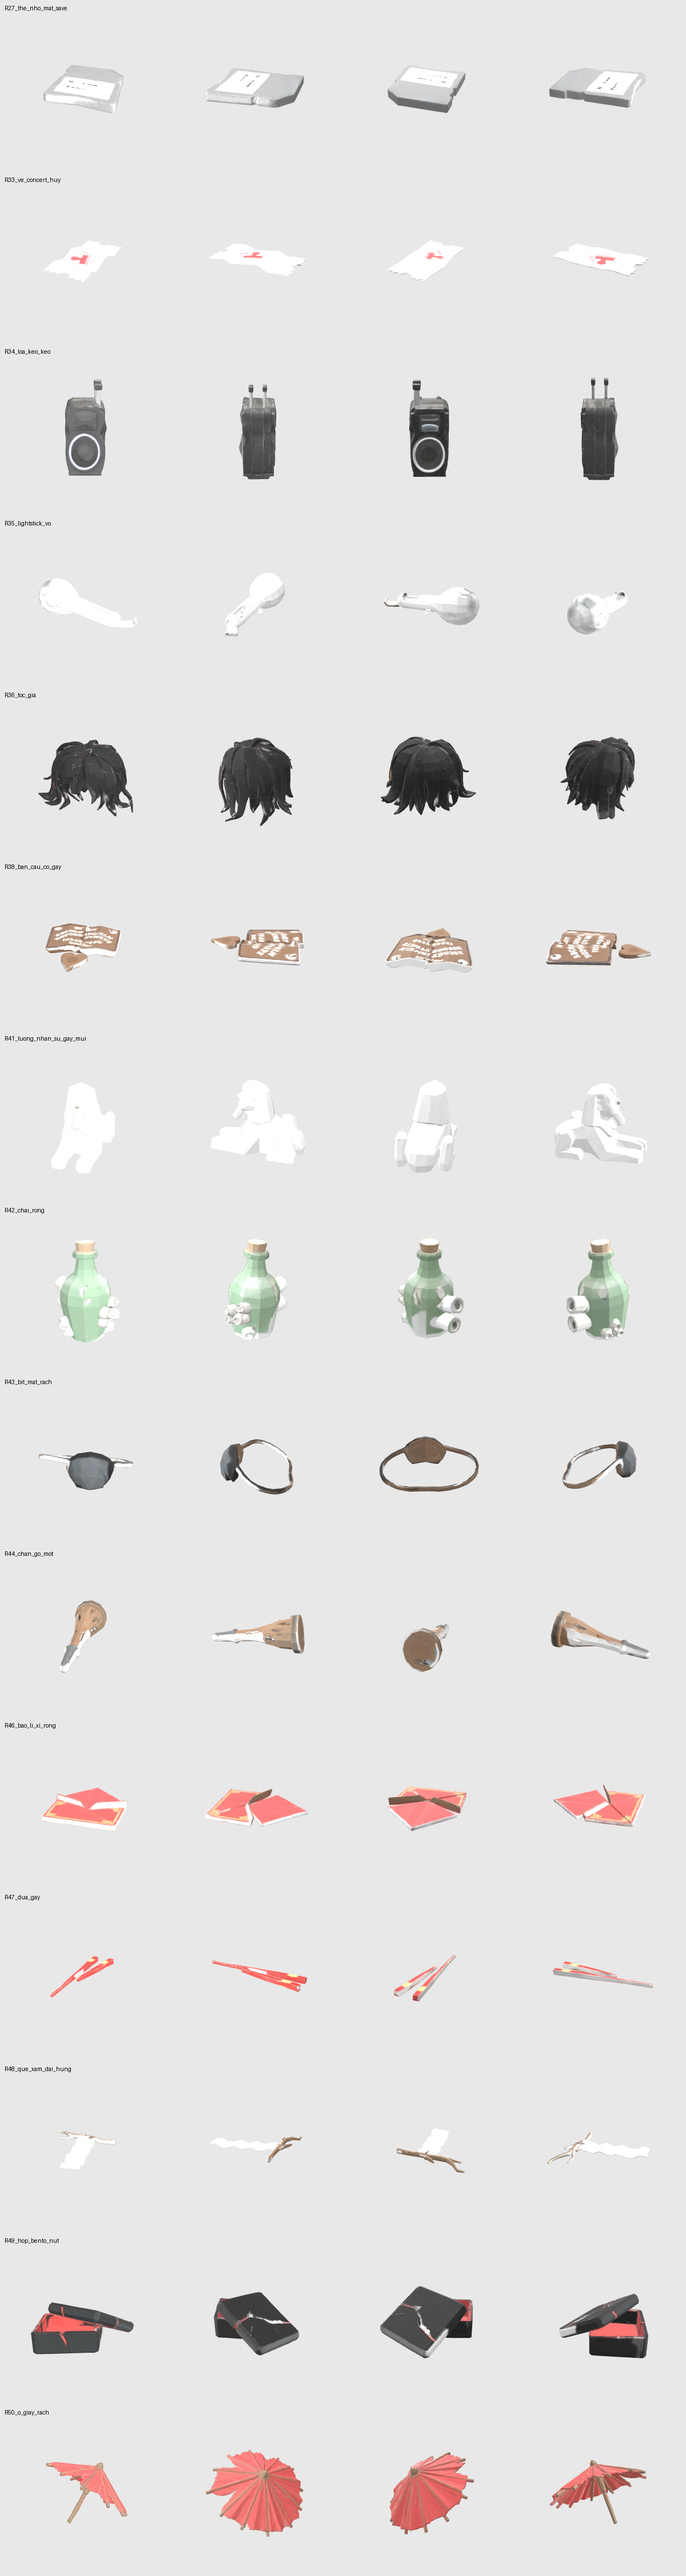
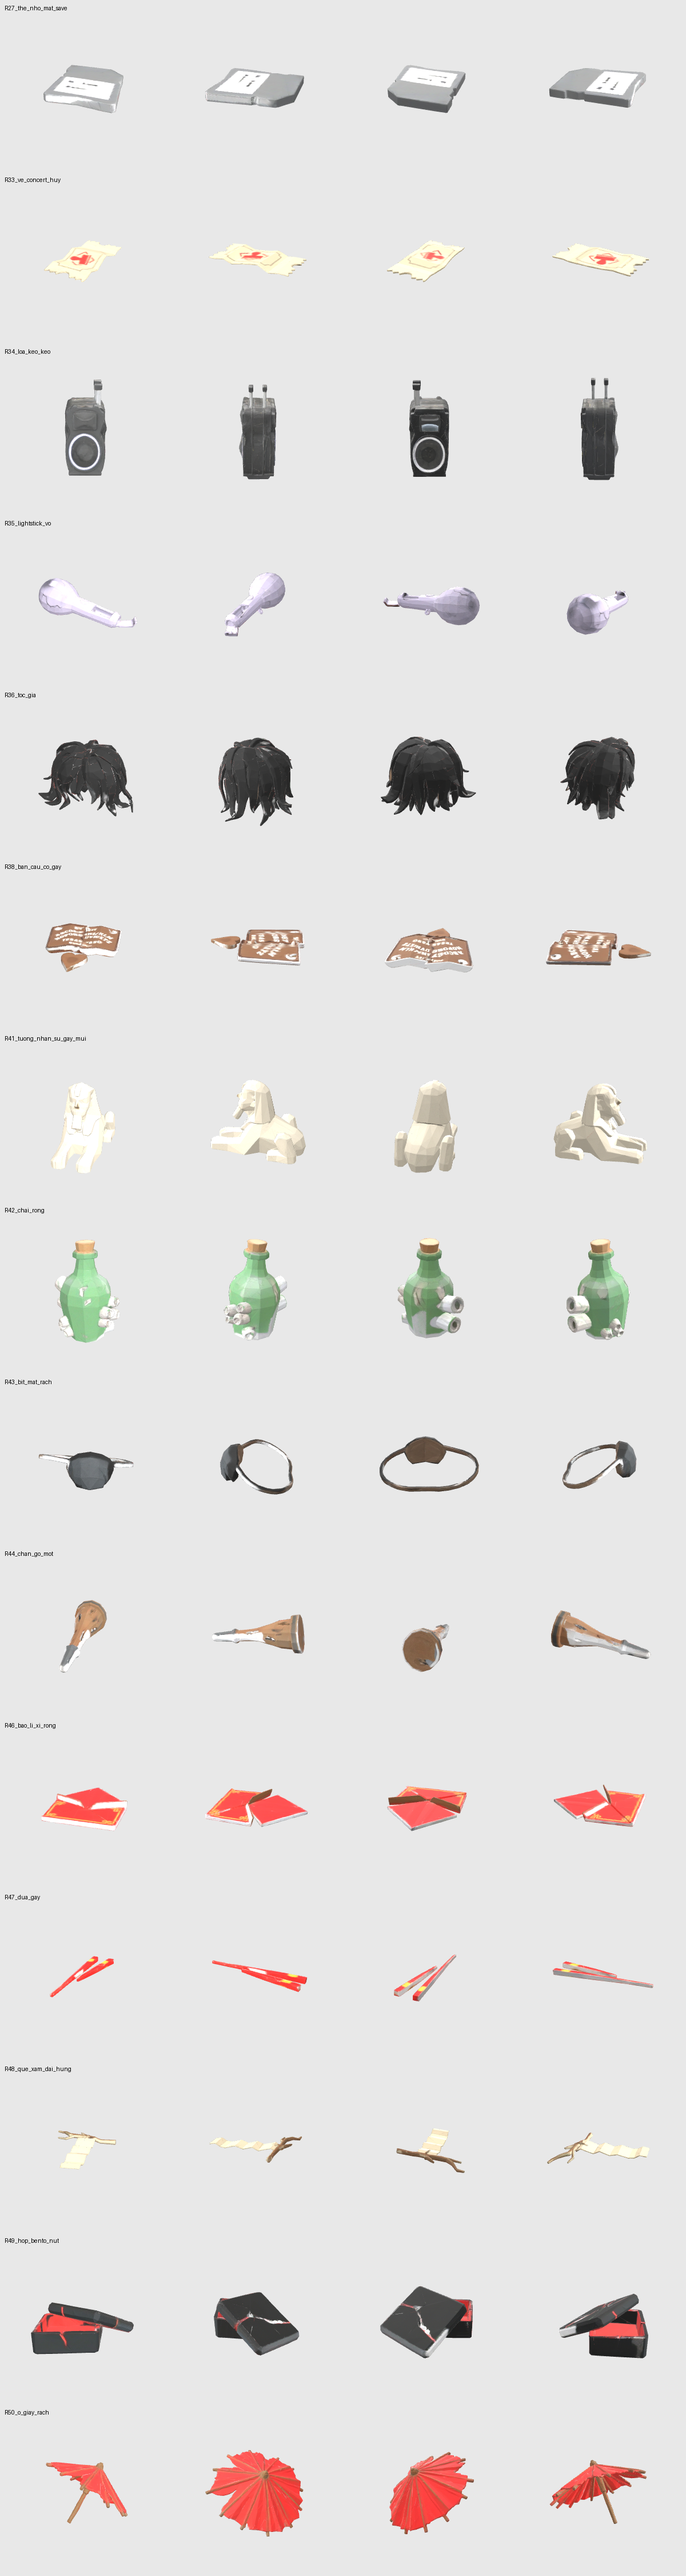
art: recolor themed junk batch 2 (R27-R50)
Claude-Session: https://claude.ai/code/session_01QKQCdazrfgwXSAQfrCh3ym

diff --git a/Tools/Meshy/retex/fix_rac.py b/Tools/Meshy/retex/fix_rac.py
@@ -13,4 +13,26 @@ if code=="R25":   # mu giay bac: xoa dom moc xanh (lem tu banh bao), to mau bac
         g=px[:,1]-np.maximum(px[:,0],px[:,2])  # xanh la troi hon do va lam
         out=px.copy();bad=g>6;out[bad]=silver;print("pixels",bad.sum(),"silver",silver.round());return out
     tex=paint(tex,P,fix)
+# Chinh mau tung mon: (do sang, do dam mau, tong mau RGB, tuong phan)
+TONE={
+ "R27":(0.85,1.2,(1,1,1),1.1),        # the nho
+ "R33":(0.8,1.5,(1,0.92,0.76),1.0),  # ve concert: giay ngả vang, dau do dam
+ "R34":(0.95,1.2,(1,1,1),1.1),        # loa keo keo
+ "R35":(0.78,1.6,(0.93,0.88,1),1.2),  # lightstick: nhua trang ngả tim
+ "R36":(1.0,1.0,(1,1,1),1.1),         # toc gia
+ "R38":(0.9,1.3,(1,1,1),1.1),         # ban cau co
+ "R41":(0.82,1.0,(1,0.95,0.85),1.3),  # nhan su thach cao: trang ngả kem, lo vet ban
+ "R42":(0.85,1.8,(1,1,1),1.1),        # chai gom xanh
+ "R43":(0.8,1.0,(1,1,1),1.1),         # bit mat
+ "R44":(0.9,1.3,(1,1,1),1.1),         # chan go
+ "R46":(0.85,1.8,(1,1,1),1.1),        # bao li xi do
+ "R47":(0.85,1.8,(1,1,1),1.1),        # dua do
+ "R48":(0.8,1.3,(1,0.92,0.76),1.0),   # que xam: giay ngả vang
+ "R49":(0.95,1.4,(1,1,1),1.1),        # hop bento
+ "R50":(0.85,1.7,(1,1,1),1.1),        # o giay do
+}
+if code in TONE:
+    k,sat,tint,con=TONE[code];mu=cols.mean()
+    g=tex.mean(2,keepdims=True);tex=g+(tex-g)*sat          # do dam mau
+    tex=((tex-mu)*con+mu)*k*np.array(tint)                  # tuong phan, do sang, tong
 save(m,np.clip(tex,0,255),dst)

diff --git a/Docs/Art/BanGiao3D.md b/Docs/Art/BanGiao3D.md
@@ -339,6 +339,7 @@ Còn lại: xem danh sách làm lại; 7 Thường và 5 Hiếm mới chưa làm
 2 ảnh gộp 14 món (lưới 5×3, `gen_img.py ... 14`), 78 credit (số dư còn 495). Ảnh nguồn `Art/Source/ref_rac_chu_de_3.png` (đạt) và `ref_rac_chu_de_2_hong.png` (hỏng, giữ để đối chiếu); ảnh kiểm tra `render_rac_chu_de_2.png`. File ở `Items/LowPoly/Junk/`, cỡ thật (mét), đáy y=0. Cả hai ảnh đều ra 15 món (Meshy nhân đôi một món), đã xóa bản thừa khỏi ảnh trước khi dựng; cả hai có đường kẻ ô, đã làm phẳng bằng `Tools/Meshy/flatten.py vào.png ra.png 5 3`.
 
 - **Ảnh 3 đạt đủ 14 món.** Đũa, tóc giả, bàn cầu cơ tách mảnh nên đã gộp.
+- **Đã tô lại màu cả 15 món** (không tốn credit, `Tools/Meshy/retex/fix_rac.py <mã> vào.glb ra.glb`, bảng `TONE` chỉnh độ sáng, độ đậm màu, tông từng món): đỏ lì xì, đũa, ô đậm hơn; chai xanh rõ; tượng nhân sư ngả kem; lightstick ngả tím; vé và quẻ xăm ngả vàng giấy.
 - **Ảnh 2 hỏng: Meshy chỉ dựng 2 khối**, dùng được loa kẹo kéo, mất 13 món. Ảnh này ra kiểu tranh vẽ có nét viền và nhiều món phẳng (vé, sổ, poster, que kem); ảnh 3 cùng lưới vẫn đạt, nên lỗi do kiểu ảnh chứ không do số món. Lần sau: xem kỹ ảnh, kiểu tranh vẽ phẳng thì tạo lại ảnh (9 credit) trước khi dựng 3D.
 
 | Mã | Món | Rương | Tình trạng |
